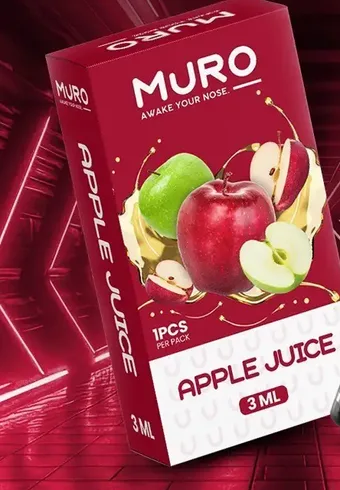
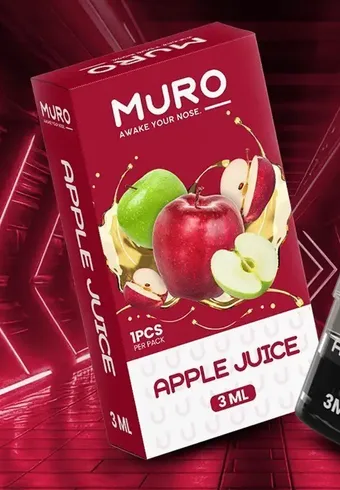
fix(muro-3ml): Apple Juice / Mineral Water / Strawberry Peach boxes re-cropped whole (checker #379: right edge was cut)

diff --git a/src/data/products/unbranded.ts b/src/data/products/unbranded.ts
@@ -188,7 +188,9 @@ export const unbrandedProducts: Product[] = [
     // Round "option photos" (08/10): Apple Juice, Mineral Water, Strawberry Peach and Cola added — ihavevape.net lists 14
     // flavours (these 4 + the 10 above) and vapeclubth.org/muro-pod-juice.html carries the same 14 in its option table;
     // box art from ihavevape.net (Apple Juice / Mineral Water / Strawberry Peach 1080 px posters, Cola 600 px), the same
-    // plain 340x490 crop of the box (_incoming/option-photos/b4/muro/crop.js). Not stocked yet = availability "unknown".
+    // plain 340x490 crop of the whole box (_incoming/option-photos/b4/muro/crop.js); on the three posters the maker's pod
+    // stands against the box's right edge, so a sliver of that real pod shows at the crop's right edge — kept, not painted
+    // out. Not stocked yet = availability "unknown".
     assets: [
       {
         kind: "official-photo",
